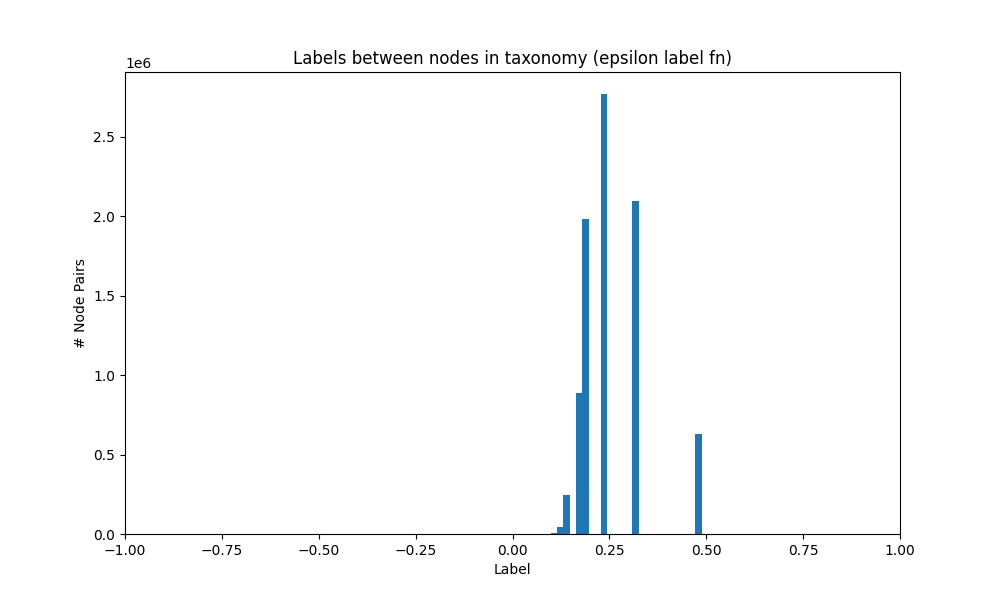
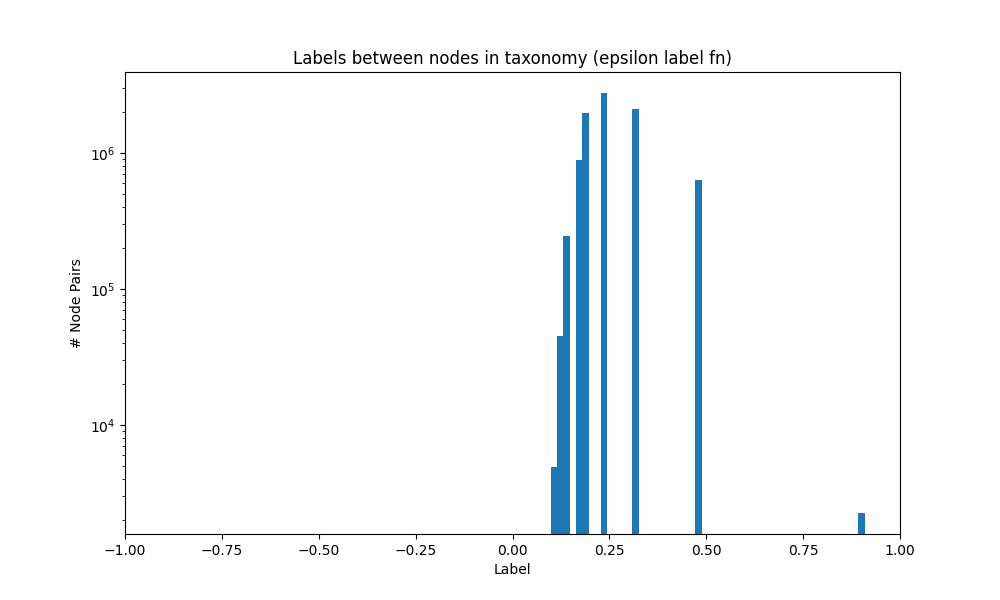
new plots

diff --git a/src/plot_distances.py b/src/plot_distances.py
@@ -50,7 +50,9 @@ core_subgraph_undirected.remove_node(data_prep.pseudo_leaf_node)
 print("Computing graph distances...")
 all_distances = dict(nx.all_pairs_shortest_path_length(core_subgraph_undirected))
 distances = []
-test_query_node_ids = [data_prep.corpusId2nodeId[i] for i in range(len(data_prep.test_queries))]
+test_query_node_ids = [
+    data_prep.corpusId2nodeId[i] for i in range(len(data_prep.test_queries))
+]
 for i in range(len(data_prep.test_queries)):
     print(f"Query {i+1}/{len(data_prep.test_queries)}")
     for n in core_subgraph_undirected.nodes:
@@ -66,17 +68,33 @@ plt.ylabel("# Node Pairs")
 plt.title("Pairwise distances between nodes in taxonomy")
 plt.savefig(plot_filename)
 
-def scaled_label(x, lower, upper):
-    return (upper - lower) * (1/x) + lower
 
-for label_name, labeling_fn in [("original", lambda d : 1/d),
-                                ("epsilon", lambda d : 1/(d+0.1)),
-                                ("linear", lambda d : max(-0.9, 1 - (0.1*d))),
-                                ("boundary", lambda d : scaled_label(d, 0, 0.9)),
-                                ("full_boundary", lambda d : scaled_label(d, -0.9, 0.9)),
-                                ("min_max", lambda d : scaled_label(d, -0.1875, 0.5625)),
-                                ("min_max_mistake", lambda d : scaled_label(d, 0.1875, 0.9375)),
-                                ]:
+def scaled_label(x, lower, upper):
+    return (upper - lower) * (1 / x) + lower
+
+
+max_graph_distance = nx.diameter(core_subgraph_undirected)
+min_graph_distance = 1
+
+
+def linear_scaled_label(x, lower, upper):
+    label_to_assign = (max_graph_distance - x) / (
+        max_graph_distance - min_graph_distance
+    )
+    label_to_assign = label_to_assign * (upper - lower) + lower
+    return label_to_assign
+
+
+for label_name, labeling_fn in [
+    ("original", lambda d: 1 / d),
+    ("epsilon", lambda d: 1 / (d + 0.1)),
+    ("linear", lambda d: max(-0.9, 1 - (0.1 * d))),
+    ("boundary", lambda d: scaled_label(d, 0, 0.9)),
+    ("full_boundary", lambda d: scaled_label(d, -0.9, 0.9)),
+    ("min_max", lambda d: scaled_label(d, -0.1875, 0.5625)),
+    ("min_max_mistake", lambda d: scaled_label(d, 0.1875, 0.9375)),
+    ("linear_scale", lambda d: linear_scaled_label(d, -0.1875, 0.5625)),
+]:
     label_plot_filename = error_analysis_dir + f"/{label_name}_label_distributions.png"
     print(f"Computing {label_name} labels...")
     labels = [labeling_fn(d) for d in distances]
@@ -88,5 +106,7 @@ for label_name, labeling_fn in [("original", lambda d : 1/d),
     plt.xlim(-1, 1)
     plt.xlabel("Label")
     plt.ylabel("# Node Pairs")
+    # make y axis log scale
+    plt.yscale("log")
     plt.title(f"Labels between nodes in taxonomy ({label_name} label fn)")
     plt.savefig(label_plot_filename)
